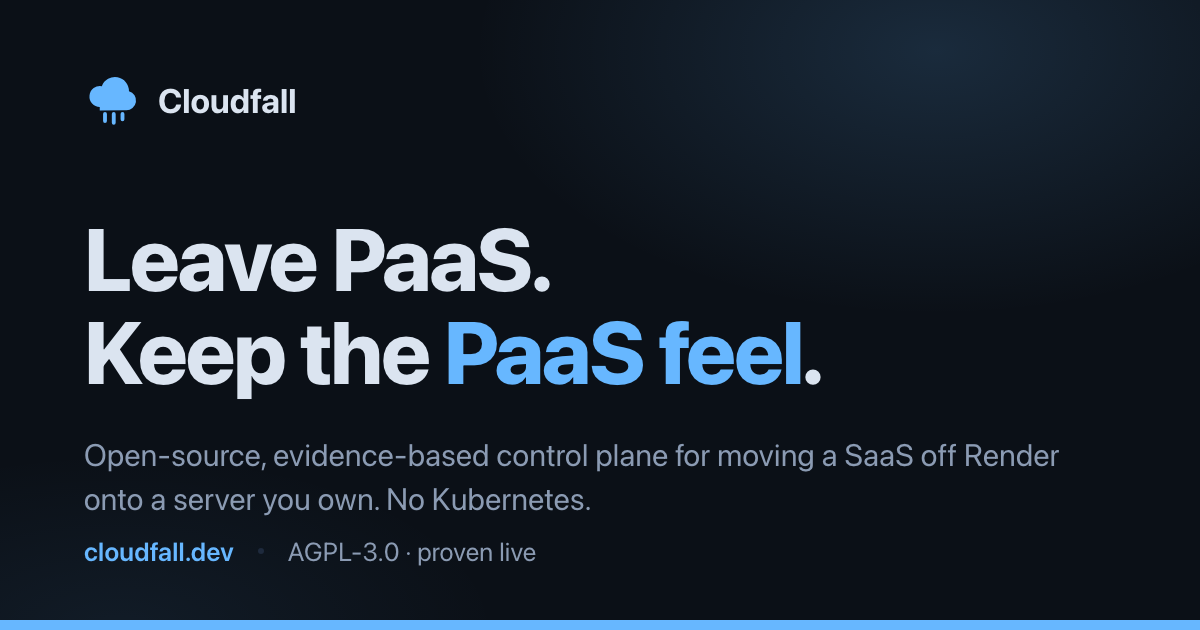
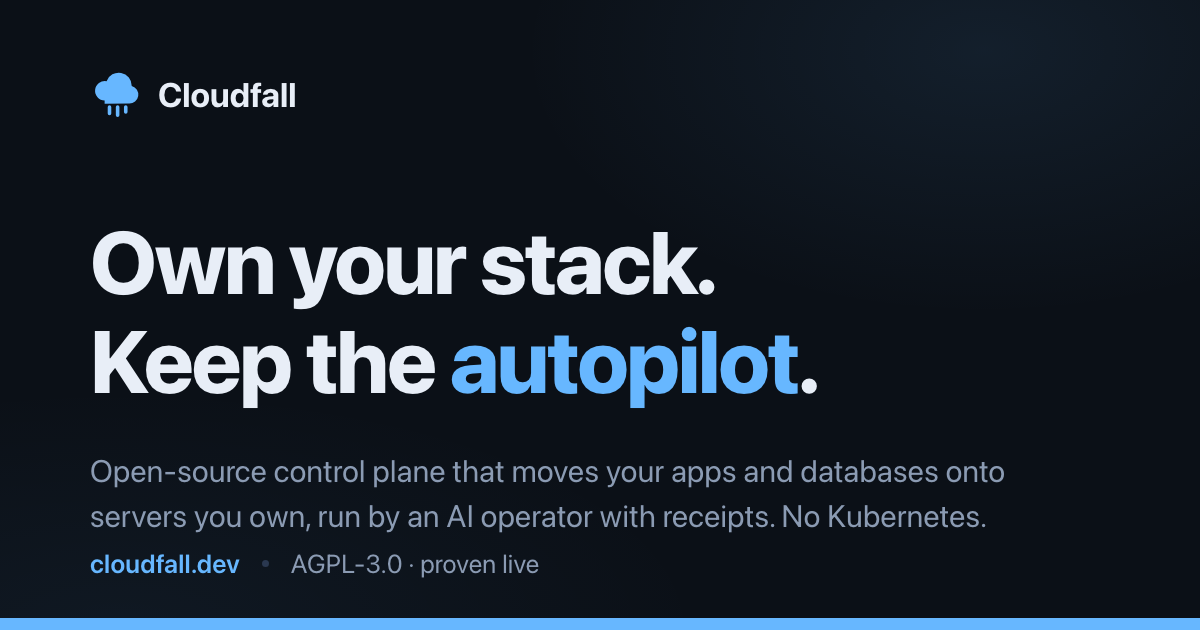
docs, site: reposition around the $1,000/mo bill and the whole-stack story
The pitch now leads with the trigger moment (a cloud bill crossing
$1,000/mo), the whole stack on one or two owned servers, and the
good-enough-databases stance backed by receipted restore drills. New
tagline: "Own your stack. Keep the autopilot."

- README: two-sentence opener, explicit bill math, compressed proof
  paragraph, six-bullet Why (economics and databases added), Status
  regrouped without milestone codes
- Landing page: new hero, six-card why-grid, undated proof strip,
  regenerated og.png with the new tagline
- Manifesto: principle 1 names the $1,000 month and scales to one or
  two servers; mirrored in the site copy

Claude-Session: https://claude.ai/code/session_01Qu5wNe5ftsoqqKogVKVwwz

diff --git a/site/public/index.html b/site/public/index.html
@@ -3,11 +3,11 @@
 <head>
 <meta charset="utf-8">
 <meta name="viewport" content="width=device-width, initial-scale=1">
-<title>Cloudfall — leave PaaS, keep the PaaS feel</title>
-<meta name="description" content="Cloudfall is an open-source, evidence-based control plane for moving a SaaS off Render onto a Debian server you own, plus an always-on AI operator that runs it there with receipts for every action.">
+<title>Cloudfall — own your stack, keep the autopilot</title>
+<meta name="description" content="For founders whose cloud bill crossed $1,000/mo: Cloudfall moves your apps and databases onto one or two servers you own, and an always-on AI operator runs them there with a receipt for every action. Open source, no Kubernetes.">
 <link rel="canonical" href="https://cloudfall.dev/">
-<meta property="og:title" content="Cloudfall — leave PaaS, keep the PaaS feel">
-<meta property="og:description" content="Open-source control plane for moving a SaaS off Render onto a server you own, plus an always-on AI operator that can't fake success. No Kubernetes.">
+<meta property="og:title" content="Cloudfall — own your stack, keep the autopilot">
+<meta property="og:description" content="Open-source control plane that moves your apps and databases onto servers you own, plus an always-on AI operator that can't fake success. No Kubernetes.">
 <meta property="og:url" content="https://cloudfall.dev/">
 <meta property="og:type" content="website">
 <meta property="og:site_name" content="Cloudfall">
@@ -15,10 +15,10 @@
 <meta property="og:image" content="https://cloudfall.dev/og.png">
 <meta property="og:image:width" content="1200">
 <meta property="og:image:height" content="630">
-<meta property="og:image:alt" content="Cloudfall — leave PaaS, keep the PaaS feel">
+<meta property="og:image:alt" content="Cloudfall — own your stack, keep the autopilot">
 <meta name="twitter:card" content="summary_large_image">
-<meta name="twitter:title" content="Cloudfall — leave PaaS, keep the PaaS feel">
-<meta name="twitter:description" content="Open-source control plane for moving a SaaS off Render onto a server you own, plus an always-on AI operator that can't fake success. No Kubernetes.">
+<meta name="twitter:title" content="Cloudfall — own your stack, keep the autopilot">
+<meta name="twitter:description" content="Open-source control plane that moves your apps and databases onto servers you own, plus an always-on AI operator that can't fake success. No Kubernetes.">
 <meta name="twitter:image" content="https://cloudfall.dev/og.png">
 <meta name="theme-color" content="#0b1017">
 <link rel="apple-touch-icon" href="/apple-touch-icon.png">
@@ -216,7 +216,7 @@
   "@type": "SoftwareApplication",
   "name": "Cloudfall",
   "url": "https://cloudfall.dev/",
-  "description": "Open-source, evidence-based control plane for moving a SaaS off Render onto a Debian server you own, plus an always-on AI operator that runs it there with receipts for every action. No Kubernetes.",
+  "description": "Open-source control plane that moves a SaaS's applications and databases off cloud PaaS onto one or two Debian servers you own, plus an always-on AI operator that runs them there with a receipt for every action. No Kubernetes.",
   "applicationCategory": "DeveloperApplication",
   "operatingSystem": "Linux",
   "license": "https://www.gnu.org/licenses/agpl-3.0.html",
@@ -251,14 +251,14 @@
   <div class="hero">
     <div class="wrap">
       <div class="badge"><span class="dot"></span>Migration and operator proven live · open source · AGPL-3.0</div>
-      <h1>Leave PaaS.<br>Keep the <span class="accent">PaaS feel</span>.</h1>
+      <h1>Own your stack.<br>Keep the <span class="accent">autopilot</span>.</h1>
       <p class="sub">
-        Cloudfall moves your SaaS off Render onto one Debian server you own:
-        hardened baseline, firewall, monitoring, PostgreSQL, TLS, health-gated
-        deploys with rollback, and a real DNS cutover. Plain systemd and nginx.
-        No Kubernetes. Then an always-on operator watches your declared
-        alerts, fixes what its receipts prove reversible, and asks you only
-        about what can't be undone.
+        Your cloud bill crossed $1,000 a month: that is $12,000 a year for
+        compute and managed databases that fit on one or two servers you own.
+        Cloudfall moves your applications and data there — hardened baseline,
+        monitoring, health-gated deploys with rollback, a real DNS cutover —
+        and an always-on operator runs them with a receipt for every action.
+        Plain systemd and nginx. No Kubernetes.
       </p>
       <div class="cta">
         <a class="btn btn-primary" href="https://github.com/romamo/cloudfall">View on GitHub</a>
@@ -292,16 +292,16 @@
   <div class="proof">
     <div class="wrap">
       <p>
-        <strong>Proven live, not promised.</strong> On 2026-09-08 the full wedge ran on
-        disposable Hetzner servers: an application actually hosted on Render was cut over
-        with its data and a real TTL-lowered DNS flip on an owned domain, resuming to
-        byte-identical responses from the Cloudfall host, with a bad release rolled back
-        automatically along the way. The entire run was driven by an AI agent through
-        <code>cloudfall-mcp</code> alone. On 2026-09-10 the operator followed: an induced
-        failure was remediated with a single approval, and a second identical failure was
-        remediated autonomously under declared policy in 2m06s, receipts throughout. On
-        2026-09-11 a timer-driven drill proved a real backup restorable, and an induced
-        failure delivered its alert to a second machine across the public network.
+        <strong>Proven live, not promised.</strong> The full journey ran on disposable
+        Hetzner servers: an application actually hosted on Render was cut over with its
+        data and a real TTL-lowered DNS flip on an owned domain, resuming to byte-identical
+        responses from the Cloudfall host, with a deliberately bad release rolled back
+        automatically along the way — the entire run driven by an AI agent through
+        <code>cloudfall-mcp</code> alone. The operator then remediated an induced failure
+        with a single approval, remediated the next identical failure autonomously under
+        declared policy in 2m06s, proved a real backup restorable in a timer-driven drill,
+        and delivered an alert to a second machine across the public network, receipts
+        throughout.
         <a href="https://github.com/romamo/cloudfall/tree/main/docs/proving-runs">Read the proving-run reports</a>
       </p>
     </div>
@@ -312,10 +312,21 @@
       <div class="kicker">Why Cloudfall</div>
       <h2>An operator that can't fake success</h2>
       <p class="section-sub">
-        Every claim Cloudfall makes about your servers is backed by evidence
-        collected from the servers themselves.
+        Leaving the cloud is a money decision blocked by a trust problem.
+        Cloudfall answers both: every dollar stops buying margins, and every
+        claim about your servers is backed by evidence collected from the
+        servers themselves.
       </p>
       <div class="grid">
+        <div class="card">
+          <h3>The bill buys computers, not margins</h3>
+          <p>
+            A steady cloud bill is mostly margin on commodity compute and
+            managed databases. The same workload runs on one or two
+            Hetzner-class servers for a tenth of the price, and the
+            difference is runway, every year.
+          </p>
+        </div>
         <div class="card">
           <h3>Evidence over inference</h3>
           <p>
@@ -326,12 +337,12 @@
           </p>
         </div>
         <div class="card">
-          <h3>Typed state you own</h3>
+          <h3>Good-enough databases, with proof</h3>
           <p>
-            Servers, applications, and domains are declared in YAML validated
-            against JSON Schemas: versionable, diffable, agent-readable. The
-            config is the whole interface; no imperative dashboard holds your
-            infrastructure hostage.
+            Managed Postgres is mostly insurance. Cloudfall keeps the coverage
+            and drops the premium: loopback PostgreSQL and Redis with receipted
+            backups and timer-driven restore drills that prove a real backup
+            restorable instead of assuming it.
           </p>
         </div>
         <div class="card">
@@ -342,6 +353,15 @@
             handshake. Autonomy is granted per operation class, licensed by
             declared policy and earned receipt history; DNS cutover, data
             deletion, and promotion always require your confirmation.
+          </p>
+        </div>
+        <div class="card">
+          <h3>Typed state you own</h3>
+          <p>
+            Servers, applications, and domains are declared in YAML validated
+            against JSON Schemas: versionable, diffable, agent-readable. The
+            config is the whole interface; no imperative dashboard holds your
+            infrastructure hostage.
           </p>
         </div>
         <div class="card">
@@ -388,10 +408,10 @@
           <div class="num">3</div>
           <h3>Operate</h3>
           <p>
-            Cut DNS and stop paying PaaS margins. The always-on operator
-            watches declared alerts and audited drift, remediates what its
-            receipts prove reversible, and delivers a receipt for every
-            action; you approve only what can't be undone.
+            Cut DNS and the bill starts buying computers. The always-on
+            operator watches declared alerts and audited drift, remediates
+            what its receipts prove reversible, and delivers a receipt for
+            every action; you approve only what can't be undone.
           </p>
         </div>
       </div>
@@ -437,7 +457,7 @@
   <section class="quickstart">
     <div class="wrap">
       <div class="kicker">Get started</div>
-      <h2>One command to see it validate</h2>
+      <h2>Sixty seconds to see how it thinks</h2>
       <div class="install"><span class="p">$</span> git clone https://github.com/romamo/cloudfall && cd cloudfall
 <span class="p">$</span> uv run cloudfall config validate config/examples</div>
       <div class="cta">

diff --git a/site/public/manifesto.html b/site/public/manifesto.html
@@ -15,7 +15,7 @@
 <meta property="og:image" content="https://cloudfall.dev/og.png">
 <meta property="og:image:width" content="1200">
 <meta property="og:image:height" content="630">
-<meta property="og:image:alt" content="Cloudfall — leave PaaS, keep the PaaS feel">
+<meta property="og:image:alt" content="Cloudfall — own your stack, keep the autopilot">
 <meta name="twitter:card" content="summary_large_image">
 <meta name="twitter:title" content="The Cloudfall Manifesto — principles behind the project">
 <meta name="twitter:description" content="Constraints we accept, not aspirations we advertise: the eight principles behind Cloudfall.">
@@ -211,9 +211,12 @@
         <p>
           A steady-traffic SaaS pays a PaaS several times the price of the
           hardware it runs on, forever, in exchange for not having to think
-          about servers. That trade made sense when the alternative was
-          Kubernetes or hand-rolled SSH scripts. It stops making sense the
-          moment the operational feel of a PaaS can live on a server you own.
+          about servers. By the month the bill crosses $1,000 you are funding
+          a platform team you never hired. That trade made sense when the
+          alternative was Kubernetes or hand-rolled SSH scripts. It stops
+          making sense the moment the operational feel of a PaaS — health-gated
+          deploys, monitoring, databases that provably restore — can live on
+          one or two servers you own.
           <strong>The bill should buy computers, not margins.</strong>
         </p>
       </div>

diff --git a/README.md b/README.md
@@ -1,52 +1,59 @@
 # Cloudfall
 
-Cloudfall is an open-source, evidence-based control plane for moving SaaS
-applications off cloud PaaS platforms onto self-hosted bare metal or VPS
-servers — plus an always-on AI operator that runs them there, without
-Kubernetes, and never reports success it cannot prove.
+Cloudfall is an open-source control plane that moves your applications and
+databases off cloud PaaS onto one or two servers you own, plus an always-on
+AI operator that runs them there. Every action produces a receipt; Cloudfall
+never reports success it cannot prove. No Kubernetes.
 
-The target workflow: take one fresh Debian host, run Cloudfall, and get a hardened
-baseline, firewall, monitoring, logging, your infrastructure services, and
+It is built for founders and small teams at the scaling stage. The month
+your cloud bill crosses $1,000 you are paying roughly $12,000 a year for
+compute and managed databases that fit on one or two Hetzner-class servers
+at a tenth of the price. Cloudfall's job is to make leaving safe: the
+operational feel of a PaaS on hardware you own, with health-gated deploys,
+rollback, monitoring, and backups that provably restore.
+
+The target workflow: take one fresh Debian host, run Cloudfall, and get a
+hardened baseline, firewall, monitoring, logging, PostgreSQL and Redis, and
 your application deployed with health checks and rollback. Then cut DNS and
-stop paying PaaS margins. See the [roadmap](ROADMAP.md) for the milestone
-plan; the wedge use case is a migration from Render onto a Hetzner-class
-server. The principles behind the project are in the
-[manifesto](MANIFESTO.md).
+stop paying margins. The wedge use case is a migration from Render onto a
+Hetzner-class server; see the [roadmap](ROADMAP.md) for the milestone plan
+and the [manifesto](MANIFESTO.md) for the principles behind the project.
 
-> **Every migration layer proven live.** On 2026-09-08 the full wedge ran
-> on disposable Hetzner Cloud Debian 13 servers: idempotent baseline,
-> compliant audits, host metrics through the mTLS logging stack, loopback
-> PostgreSQL with peer-auth databases, real Let's Encrypt certificates,
-> health-gated deploys with an automatic rollback of a bad release, and an
-> application actually hosted on Render, cut over with its data and a real
-> TTL-lowered DNS record flip on an owned domain, driven by an AI agent
-> through `cloudfall-mcp` alone. On 2026-09-10 the operations layer
-> followed: an induced failure raised a declared alert as evidence, the
-> propose-mode operator remediated it with a single human approval, and a
-> second identical failure was remediated autonomously under declared
-> policy. On 2026-09-11 the untested promises followed: a timer-driven
-> restore drill proved a real backup restorable with a schema-valid
-> receipt, and an induced failure delivered its alert to a separate
-> machine across the public network (see the
-> [proving-run reports](docs/proving-runs/)). Not yet exercised live:
-> bare-metal RAID/storage provisioning (see the [roadmap](ROADMAP.md))
+> **Proven live, not promised.** Everything implemented has run on
+> disposable Hetzner Cloud Debian 13 servers: an application actually hosted
+> on Render was cut over with its data and a real TTL-lowered DNS flip on an
+> owned domain, a deliberately bad release was rolled back automatically
+> along the way, an induced failure was remediated by the operator first
+> with a single human approval and then autonomously under declared policy,
+> a timer-driven drill proved a real backup restorable, and an alert crossed
+> the public network to a second machine. The entire migration was driven by
+> an AI agent through `cloudfall-mcp` alone. Full reports:
+> [proving-runs](docs/proving-runs/). The one layer not yet exercised live
+> is bare-metal RAID/storage provisioning (see the [roadmap](ROADMAP.md))
 
 ## Why Cloudfall
 
-- **Declarative and auditable.** Servers, applications, components, and
-  domains are declared in typed YAML config validated against JSON Schemas.
-  A read-only inspection pipeline collects evidence from hosts, and
-  `cloudfall audit` reports drift between the config and the observed servers
-  with distinct exit codes
+- **The bill buys computers, not margins.** A steady $1,000/mo cloud bill is
+  mostly margin on commodity compute and managed databases. On servers you
+  own, that difference becomes runway, every year
 - **Evidence over inference.** Deployments produce receipts; status is
-  derived from validated observations. Cloudfall never reports success it cannot
-  prove
+  derived from validated observations, and `cloudfall audit` reports drift
+  between the declared config and the observed servers with distinct exit
+  codes. Cloudfall never reports success it cannot prove
+- **Good-enough databases, with proof.** Managed PostgreSQL is mostly
+  insurance. Cloudfall keeps the coverage and drops the premium: loopback
+  PostgreSQL and Redis with receipted backups and timer-driven restore
+  drills that prove a real backup restorable instead of assuming it
+- **An operator, not a pager.** The always-on operator watches declared
+  alerts and audited drift, remediates what its receipts prove reversible
+  under declared policy, and asks you only about what can't be undone
 - **AI-agent native.** Agents operate through a stable CLI and Python API
-  with structured JSON results instead of inventing shell commands over SSH. The
-  `cloudfall-mcp` server exposes read-only evidence tools freely and gates
-  every server-changing tool behind an explicit confirmation handshake
-- **systemd, not containers.** Applications run as native systemd services
-  with artifact releases and symlink rollback on long-lived Debian servers
+  with structured JSON results instead of inventing shell commands over SSH.
+  The `cloudfall-mcp` server exposes read-only evidence tools freely and
+  gates every server-changing tool behind an explicit confirmation handshake
+- **Boring on purpose.** Applications run as native systemd services with
+  artifact releases and symlink rollback, behind nginx, on stock Debian. Any
+  Linux admin can take over the server without Cloudfall installed
 
 ## Architecture
 
@@ -67,26 +74,30 @@ full architecture and the long-term fleet vision.
 
 ## Status
 
-Cloudfall is pre-1.0. Implemented today: config validation, typed inventory,
-deterministic Ansible inventory rendering, read-only server inspection,
-config-versus-observed drift audit, a Debian bootstrap role, a UTC time
-baseline, an nftables firewall, a guarded Loki/Grafana/Alloy logging stack
-with declared alert rules and notification channels, an evidence-derived
-operations dashboard, a service catalog (PostgreSQL, Redis, and Nginx/TLS
-sites), the health-gated deploy slice with artifact releases and symlink
-rollback, sops/age secret rendering, receipted backup and restore-proof
-commands, the `cloudfall-mcp` server, blueprint and live-API Render
-importers, the resumable `cloudfall migrate` orchestrator with explicit
-cutover steps, and the always-on operator with receipted proposals and
-policy-bounded autonomy, and the timer-driven restore drill with external
-alert delivery. Every implemented layer has been validated live on
-disposable Debian targets except bare-metal RAID/storage provisioning
-(see the [proving-run reports](docs/proving-runs/)). Next up: the
-fleet-density track — enforced resource sharing (M11), application
-mobility with node drain (M12), PostgreSQL point-in-time recovery and
-scale readiness (M13), and the demand-gated failover formation (M14) —
-alongside broader catalog breadth and bare-metal storage provisioning.
-See the [roadmap](ROADMAP.md) for the milestone plan.
+Cloudfall is pre-1.0 and honestly labeled. Implemented today, and proven
+live on disposable Debian targets:
+
+- Typed YAML config validated against JSON Schemas, deterministic Ansible
+  inventory rendering, read-only server inspection, and
+  config-versus-observed drift audit with distinct exit codes
+- Hardened Debian baseline, UTC time, nftables firewall, and a guarded
+  Loki/Grafana/Alloy logging stack with declared alert rules and
+  notification channels over mTLS
+- A service catalog (loopback PostgreSQL, Redis, and Nginx/TLS sites) with
+  sops/age secret rendering, receipted backups, and a timer-driven restore
+  drill with external alert delivery
+- Health-gated deploys with artifact releases and symlink rollback, plus an
+  evidence-derived operations dashboard
+- Render blueprint and live-API importers, guided data migration, and the
+  resumable `cloudfall migrate` orchestrator with explicit cutover steps
+- The `cloudfall-mcp` agent server and the always-on operator with receipted
+  proposals and policy-bounded autonomy
+
+The one implemented layer not yet validated live is bare-metal RAID/storage
+provisioning. Next up is the fleet-density track: enforced resource sharing,
+application mobility with node drain, PostgreSQL point-in-time recovery, and
+the demand-gated failover formation, alongside broader catalog breadth. See
+the [roadmap](ROADMAP.md) for the milestone plan.
 
 ## Quickstart
 

diff --git a/MANIFESTO.md b/MANIFESTO.md
@@ -8,10 +8,13 @@ accept, not aspirations we advertise.
 ## 1 · You should own your infrastructure
 
 A steady-traffic SaaS pays a PaaS several times the price of the hardware it
-runs on, forever, in exchange for not having to think about servers. That
-trade made sense when the alternative was Kubernetes or hand-rolled SSH
-scripts. It stops making sense the moment the operational feel of a PaaS can
-live on a server you own. The bill should buy computers, not margins.
+runs on, forever, in exchange for not having to think about servers. By the
+month the bill crosses $1,000 you are funding a platform team you never
+hired. That trade made sense when the alternative was Kubernetes or
+hand-rolled SSH scripts. It stops making sense the moment the operational
+feel of a PaaS — health-gated deploys, monitoring, databases that provably
+restore — can live on one or two servers you own. The bill should buy
+computers, not margins.
 
 ## 2 · Evidence over inference
 
